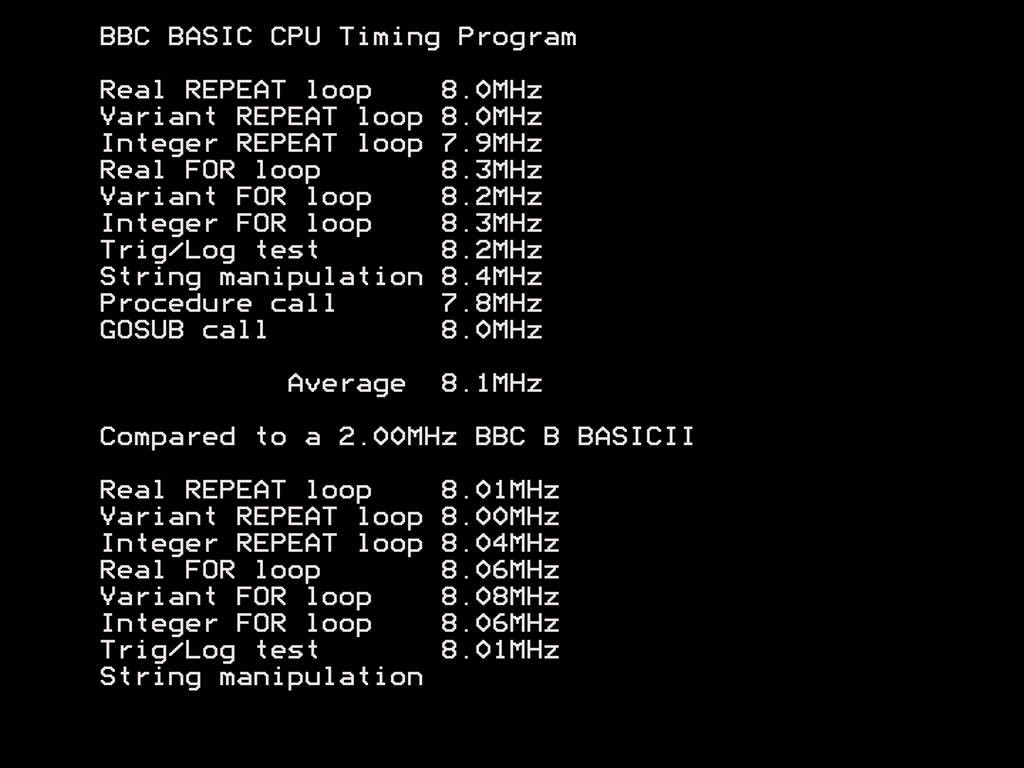
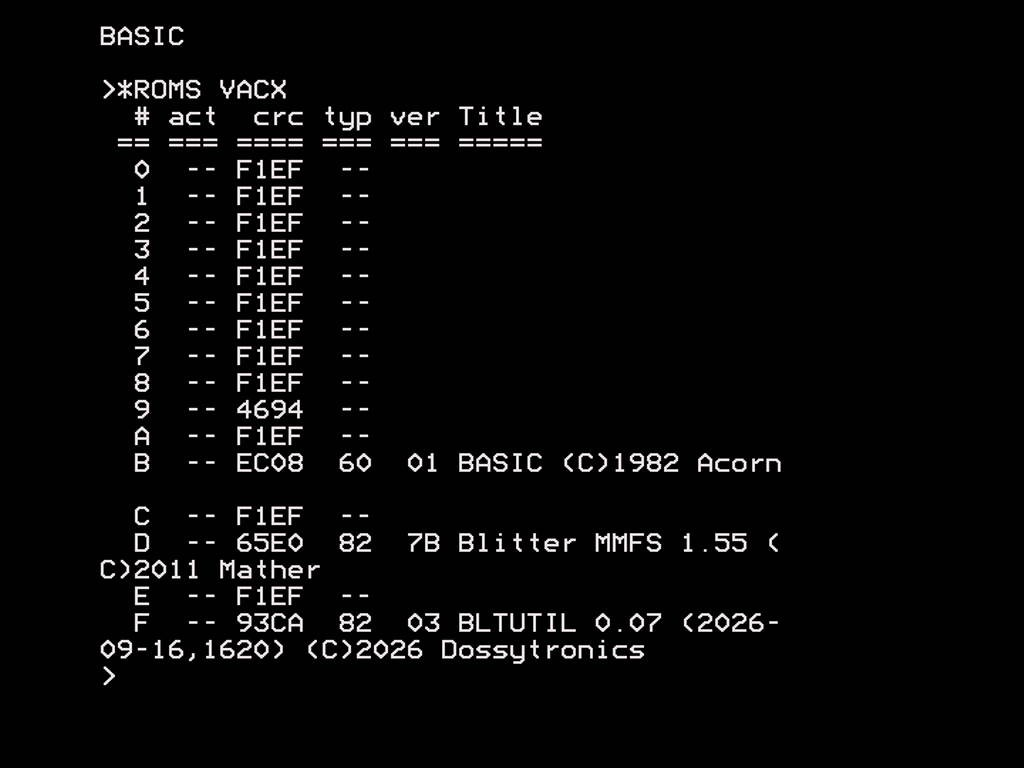
incorrect picture

Changed region(s): [[0.0938, 0.0938, 0.7812, 0.9062], [0.0938, 0.0312, 0.5625, 0.0625]]

diff --git a/src/hdl/modelC20K/doc/UKWebb/C20K-getting-started.md b/src/hdl/modelC20K/doc/UKWebb/C20K-getting-started.md
@@ -453,7 +453,8 @@ The "X" (for exchange) shows the other map's ROMS we could also do
 
 If your romset for map 1 doesn't look like the listing above then use the 
 [Preboot Menu System](#preboot-menu-system) to load the standard set to map 1 -
-don't forget you may need to erase map 1 first.
+don't forget you may need to erase map 1 first. Note: don't worry if the CRCs
+are different just make sure you have the right ROMs loaded.
 
 We can now boot to 65816 mode, to do so hold down the rear-most button on the
 left hand side of the C20K whilst either clicking the reset button (next to the
